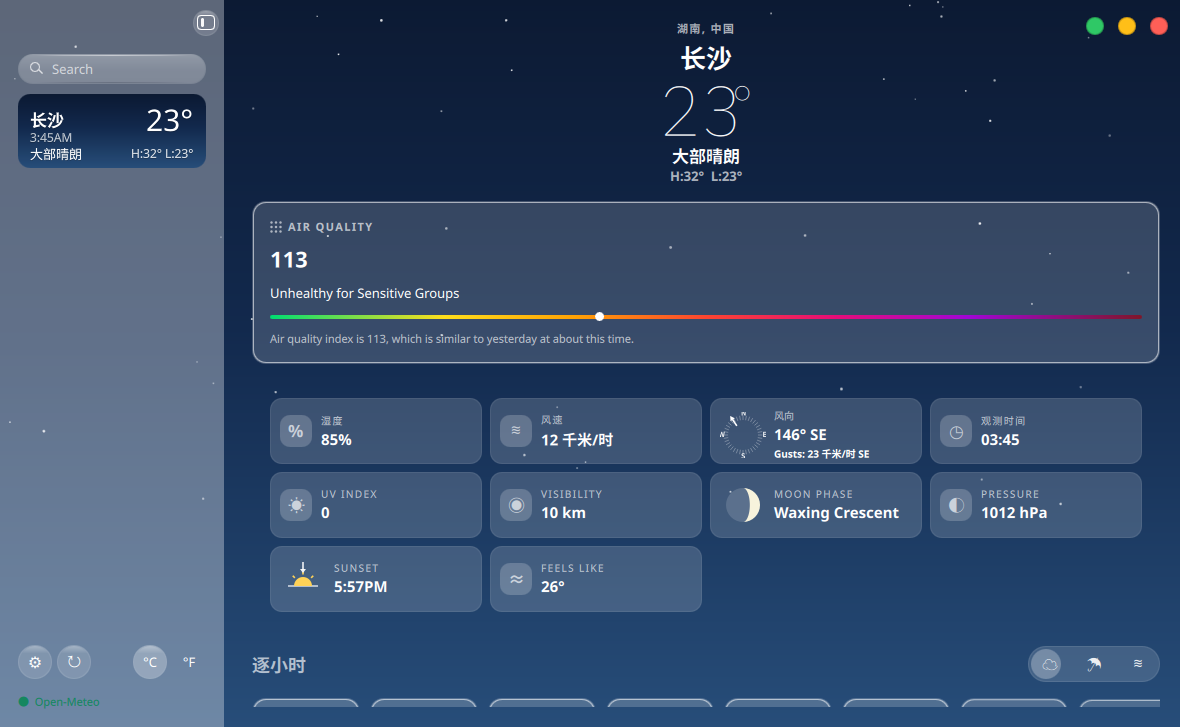
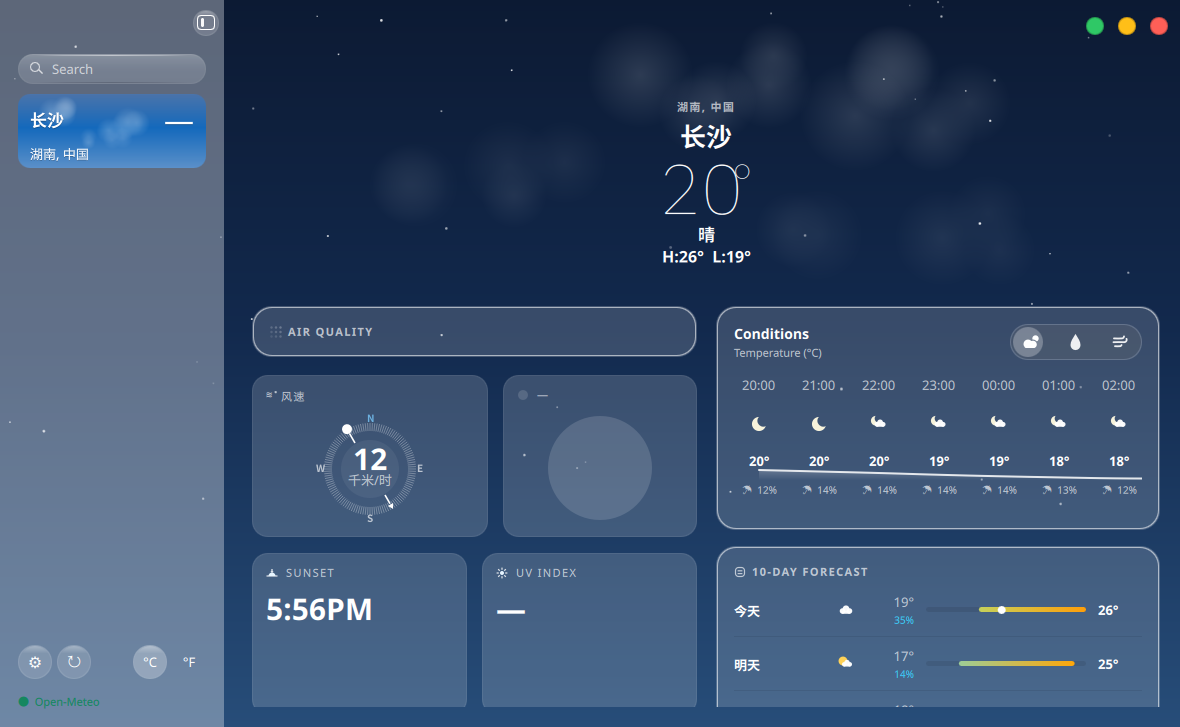
docs: round 56 进度与截图

diff --git a/docs/ui-weather/LEDGER.md b/docs/ui-weather/LEDGER.md
@@ -4,6 +4,9 @@
 参考实测色（814×498 主图采样）：天空 `#2961a7→#1469bc→#538ec9`（上→下，含云照片）；Conditions 卡 `#0057b2`；hero 文本 `#ffffff`；10天条渐变 青→黄→橙。
 
 ## 已改
+- **0e 内容区顶部节奏：hero 顶 padding + hero→卡片 gap 双 knob（本轮，前端，零 Go/C++/shared/翻译改动）**：`apps/weather/qml/Main.qml:1535` heroColumn 加 `Layout.topMargin: Math.max(0, mainFlick.height * 0.149 - 24)`（比例式：ref-main hero 小标签 ink 顶 74/498=14.9% 窗高；−24 = margin20 + label ink 偏移4，默认窗高时 ≈78px）；`apps/weather/qml/Main.qml:1537` 加 `Layout.bottomMargin: 22`（ref H·L ink 底→AQ 卡顶 30px@814 ×1.46≈44；原 ink gap 22 = spacing16+ink6，+22 后 ≈44）。transform/scale 视差未动。
+  **实测**（本轮二进制截图 tmp/shots/1792325743.png 过体检闸 ✅ 1180×727，dev env + KOS_SCREENSHOT_DELAY_MS=2500）：hero label ink 顶 **y104 = 14.3%** 窗高（目标 ~14.9%/108px，残差 ~4px——比例式以 flick 高 687 为基数，ref 14.9% 按整窗 498 含装饰区算，口径差异内不再调）；H·L ink 底 y261 → AQ 卡顶描边 y307 = **46px**（目标 44，2px AA 内命中）。整列卡片下移 ~100px，与参考"hero 偏下、卡片区贴 fold"节奏一致；10 天卡/瓦片区渲染正常，视差滚动绑定未回归。
+  **测试**：kos-weather-client-test `Totals: 6 passed, 0 failed`；go test ./... ok。
 - **hero H·L 行字号与颜色贴参考（本轮，前端，零 Go/C++/shared/翻译改动，巡检轮新发现）**：巡检截图（tmp/shots/patrol-1792325190.png 过体检闸 ✅ 1180×727，dev env + KOS_SCREENSHOT_DELAY_MS=2500）对照 ref-main Pillow 行带实测（ref 天空底 lum ~95-110，thr190 干净分离）——ref H·L 行 ink **8px**（y168-175）、墨均值 **(224,230,239)** 与条件行 (232,237,243) 同白系（hero 仅顶部小标签 muted (202,210,223)）；我方 H·L ink 9px（×1.46 应 ~11.7）、峰值 (173,179,190) 灰调（`skyTextMuted` 白@0.66）。`apps/weather/qml/Main.qml:1608` color `skyTextMuted`→`skyText`；:1612 `font.pixelSize: 13`→`16`（注释标明实测依据）；topMargin -3 与其余属性零改动。
   **实测**（本轮二进制截图 tmp/shots/herohl-1792325385.png 过体检闸 ✅ 1180×727）：H·L ink 173-183 = **11px**（ref 8×1.46≈11.7 命中）；峰值 **(255,255,255)**、均值 (219,229,227) 与 ref (224,230,239) 同白族；条件行 ink 148-163 零位移；条件→H·L ink gap 10px vs 目标 9（1px 内，不再动）。
   **回归**（vs 改前 patrol-1792325190，2px 步进 diff>24）：H·L 行区外 11831 采样变化——根因是 **H·L 行盒变高 +4px 把 scroll content 整体下推**（AQ 卡顶 201→205、10 天卡顶 441→445 实测），非无关回归；下移方向与 ref 一致（见仍差 0e：ref H·L 墨底→AQ 卡顶 30px@814×1.46≈44px，我方改前 21/改后 22，仍偏紧）。测试 Qt 6/6 绿、go test -count=1 ok；qmllint 0 error（151 warning 行）。无动效改动，无帧差义务。
@@ -358,7 +361,7 @@
 ## 仍差（按视觉冲击排序）
 0d. ~~**侧栏选中卡副行：参考首卡（选中=My Location 城）副行是 "My Location"，我方首卡仍显示当地时间**~~（**已做**，见已改"侧栏选中卡副行 My Location"——选中卡显示"我的位置"，未选卡维持当地时间，截图 1792322080 实测逐项一致）。
 6. ~~侧栏只有 1 个城市时卡下方大片空白（参考有多城填满）；无数据可解，仅记录~~（**多城已实拍验证收口数据侧**，2026-10-18 多城轮：dev state 加 Cupertino/Mumbai/Tokyo 三城 + 强制刷新取到 summary，截图 1792321838 实拍 4 城卡正确渲染——各城当地时区时间（4:00AM/4:30PM/8:00PM）、温度、H·L、Mumbai 昼卡云纹理、选中卡在顶，均正确；卡区 y95-410 填满后下方空白随城数收缩，系数据量问题非 bug。生产单城空白维持"仅记录"）。
-0e. **内容区顶部节奏整体偏紧（本轮巡检发现，结构性，未动，视觉冲击高于其余低冲击残差）**：ref hero 顶部小标签 ink 顶 **74/498=14.9%** 窗高（按 LEDGER 通行 ×1.46=727/498 窗高比折算 ≈**108px**@我方窗），我方 hero label ink 顶 **y24=3.3%**——hero 顶起始偏高 ~84px；且 ref H·L 墨底→AQ 卡顶 **30px@814×1.46≈44px**，我方 **22px**——hero 下方到卡片区也偏紧 ~22px。两个 knob（内容区顶 padding、hero→卡片 gap）需一起调；牵动整列卡片下移 ~84-106px（主区是 Flickable 可滚出，无裁切风险；与「内容区四周留 20px」裁定只增不减不冲突），compact 窄窗需同步复测。注：×1.46 折算沿用既有轮口径（若 ref-main 实为 1x 逻辑分辨率则目标应为 74px 定值，拿不准按比例口径先做，实拍后按观感复核）。
+0e. ~~**内容区顶部节奏整体偏紧**~~（**已做**，见已改"0e 双 knob"——hero 顶改比例式 `14.9%×flick高−24`，实测 label ink 顶 y104=14.3% vs 目标 ~108px（残差 ~4px 系 flick 高/整窗口径差，不再调）；H·L ink 底→AQ 卡顶 **46px** vs 目标 44 ✓。compact 窄窗下比例式会自动缩小 topMargin，形态待未来窄窗轮顺带复测）。
 0c. ~~**dailyCard（10 天卡）间歇性不渲染**~~（**已收口，见已改首条——根因是 `--screenshot` 固定 650ms 抓帧与 socket 异步数据到达的竞态，非布局 bug**；探针实证 dailyCard 代码健康（colImpl 0→401 异步、impl 437=row 值+padding 36、row/col 1/1 正确），padding 两行被探针实验排除嫌疑。**以后轮验证截图一律加 `KOS_SCREENSHOT_DELAY_MS=2500`**，遇"卡缺失"帧先加延迟重拍再怀疑布局）。
 0. **主区版式：参考是双列卡片 masonry（步 a+c 已完成，步 b 第一半=结构迁入已完成，见已改）**：ref-main（814×498）实测内容区两列——左列 AQ 卡（半宽）+ WIND/MOON PHASE 大方卡并排 + SUNSET/UV INDEX 并排，右列 Conditions 卡（含逐小时）+ 10 天卡。**步 a 已完成**（AQ+Conditions 并排两列等宽、顶对齐、列缝 ~19px）；**步 c 已完成**（10 天卡入右列）；**步 b 第一半已完成**（瓦片区入左列 AQ 下方 2 列、AQ→瓦顶 20px 精确、86px 天窗消除，见已改）。**步 b 第二半进行中（瓦片形态改参考大方卡）：WIND 卡已完成**（见已改——罗盘居中+速度环心+Gusts 底行，卡高 162 精确、数字字形 21px vs 目标 22）；**月相卡已完成**（见已改——头部相位名 caps+中央大月亮 d104，162px 高，WIND/月相对半并排 234/19/190 实测 vs 目标 235/15/193，缝 +4px 残差）；**SUNSET 卡已完成**（见已改首条——头部 glyph+SUNSET caps+左对齐大号时间 30px，162px 高、全宽跨 2 列中间态，缝 17px 精确、墨顶 +44 精确）。**UV 大方卡已完成**（见已改首条——SUNSET/UV RowLayout 等分 214/15/214，实测 213/17/213 等宽，大数字 30px ink 21px 与 SUNSET 同高；旧 66px UV 瓦删除）。**步 b 第二半至此收口：四张参考大方卡（WIND/月相/SUNSET/UV）全部成形**。剩余：湿度/观测时间/FEELS LIKE/PRESSURE/VISIBILITY 参考无对应卡，按 Apple 惯例落位——**折叠线下回流已实拍复核收口（见已改首条）**：VISIBILITY/PRESSURE 成对、FEELS LIKE 独占一格（右侧空格是否拉满待裁定）；compact 单列顺序变化（现 WIND+月相→SUNSET+UV 对半→湿度/观测时间→VISIBILITY/PRESSURE→FEELS LIKE→Conditions→10 天）**已实拍复核收口**（见已改首条——760 窄窗两 probe 实拍逐项一致、无重叠无裁切）；空态半宽**已实拍复核收口**（见已改"空态文字可读性修复"条——半宽居中渲染健康，顺带修掉标题近黑不可读缺陷）。残差：a) ~~Conditions 半宽下逐小时可见 ~3.5 列 vs ref 半宽 6 列~~（**已做**，见已改"逐小时列密度校准"——列距 60px 精确、可见 7 列）。
 0b. ~~**AQ 卡→下方瓦片区垂直间距 vs 目标 20px**~~（**已做**，见已改"AQ 卡→瓦片区间距 36→20px"；勘误：上轮记载"45px"与本轮复测不符——本轮新鲜截图 1792302298 同口径描边-描边实测 **36px**（AQ 底描边 y357 → 瓦顶描边 y393），45 系上轮口径/截图差异，本轮以 36 为准收敛 16px。归因拆清：content spacing 16 + 透明包裹卡 conditionsCard padding round(18×densityScale)≈20 = 36。）
